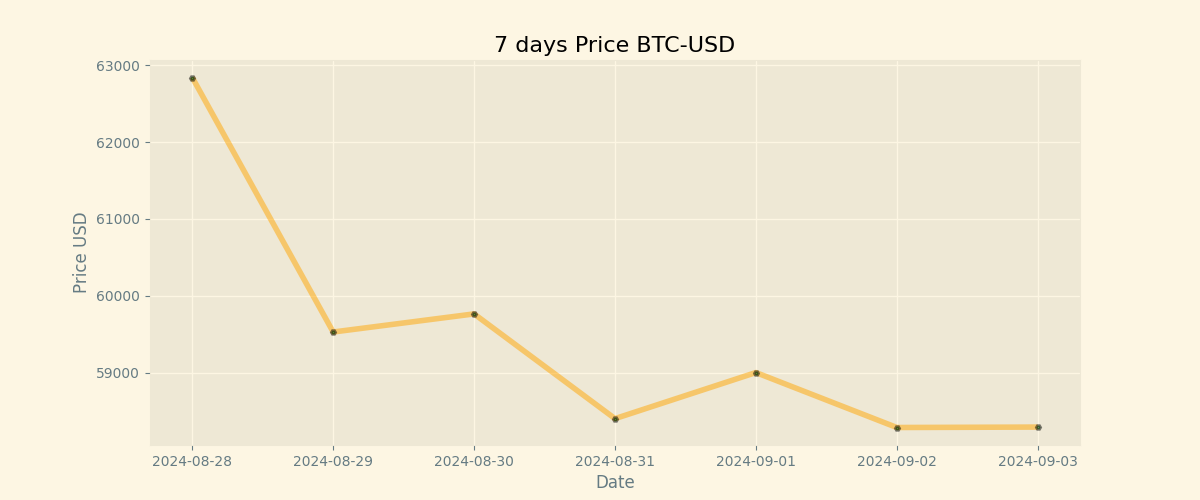
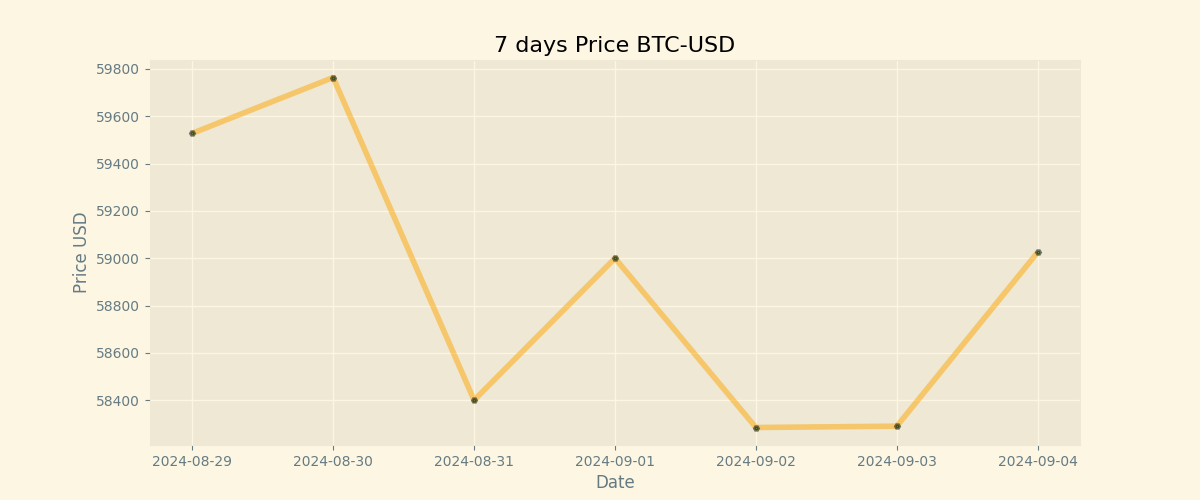
Duty Updates 2024-09-04

diff --git a/README.md b/README.md
@@ -9,8 +9,8 @@
 
 | Currency | Price           |
 | -------- | --------------- |
-| **BTC**  | **$ 58290.17** |
-| **ETH**  | **$ 2520.29** |
+| **BTC**  | **$ 59025.31** |
+| **ETH**  | **$ 2493.26** |
 
 ## BTC chart
 
